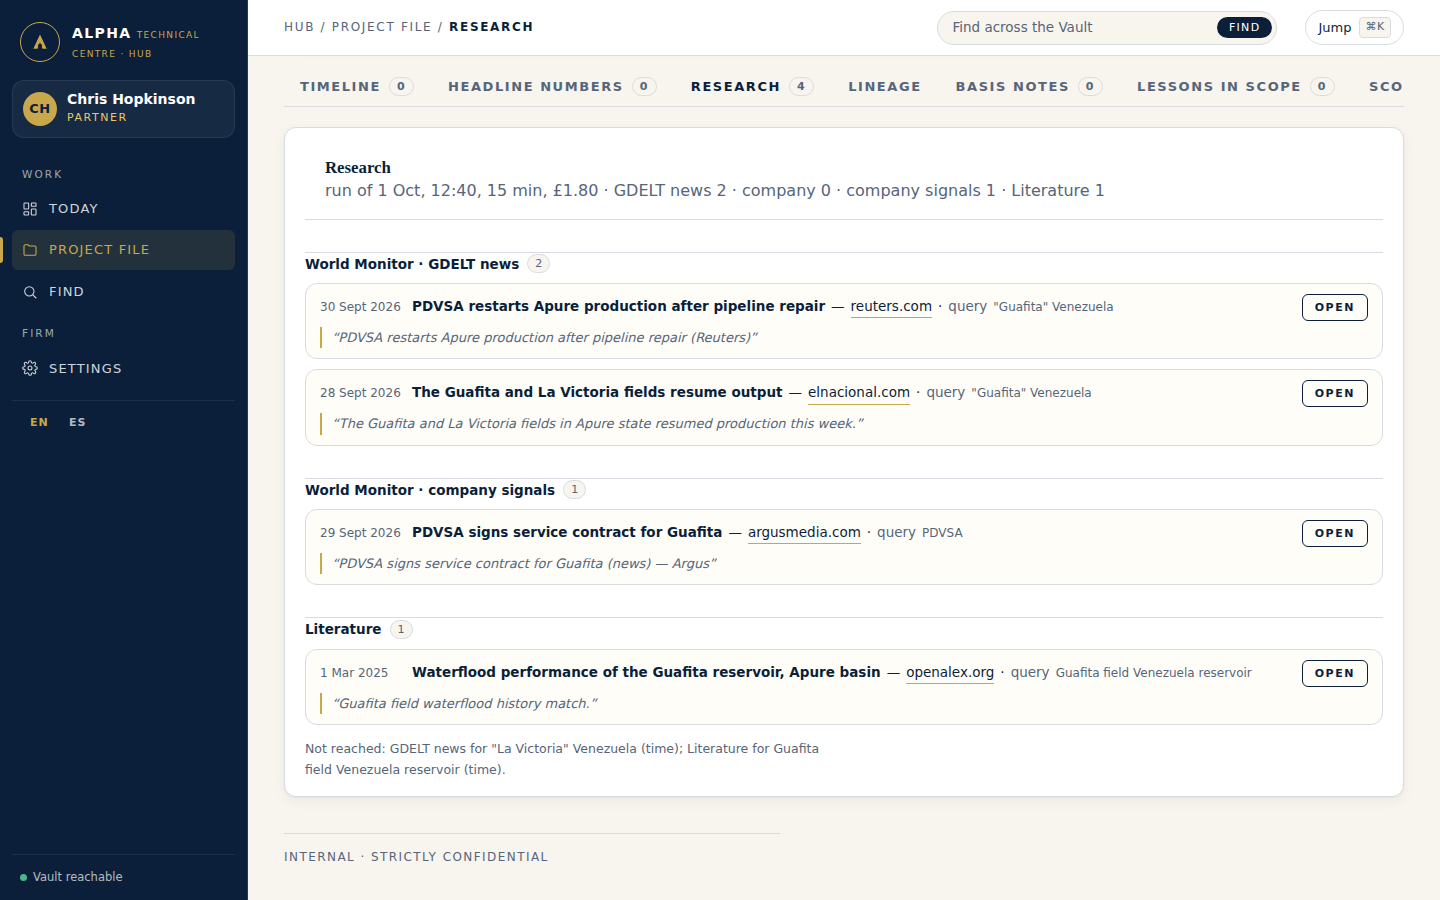
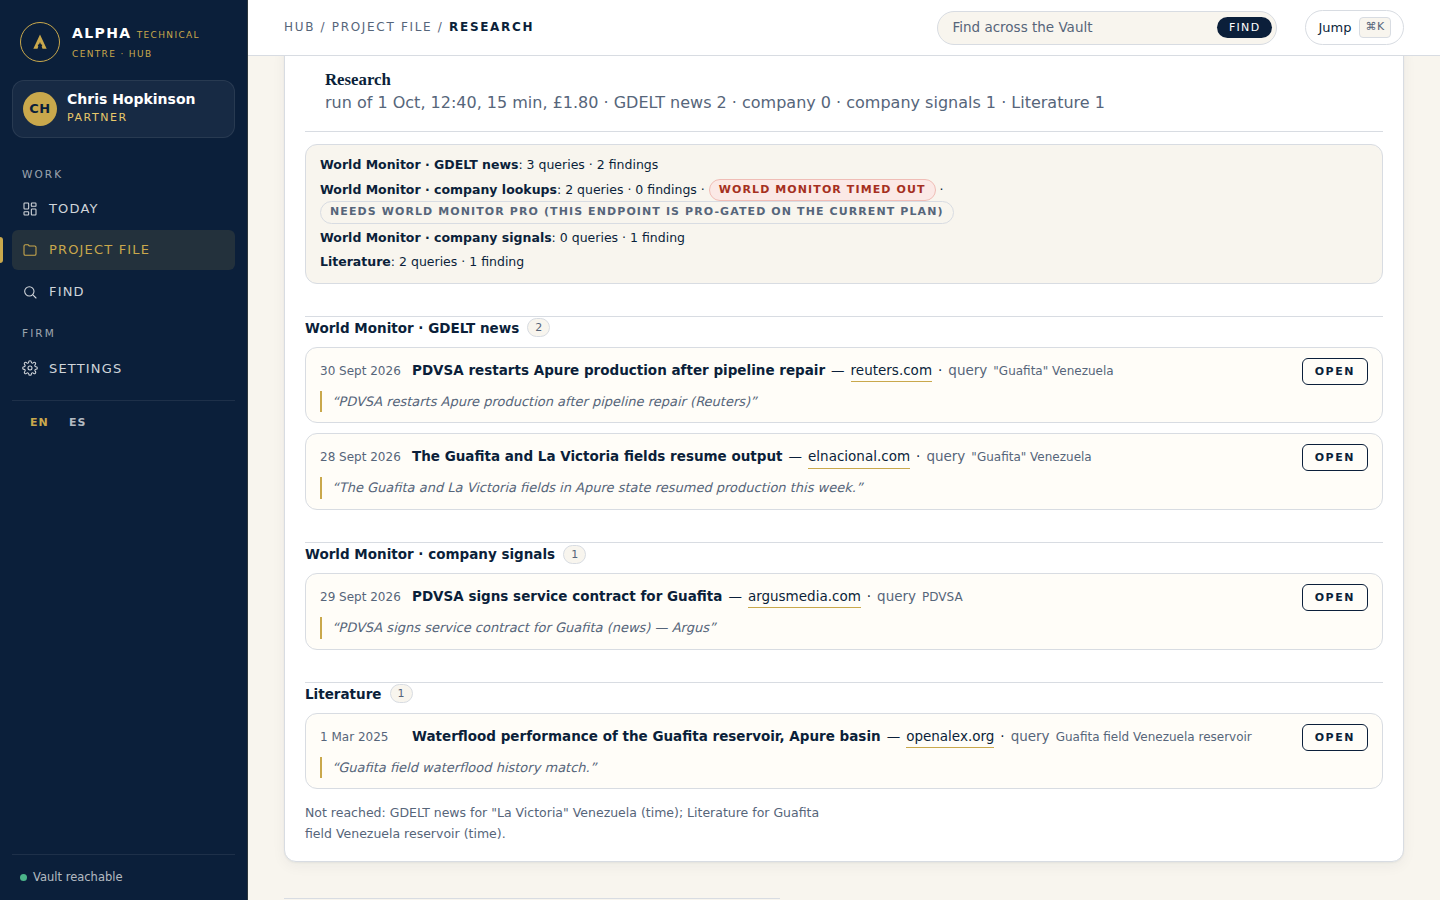
Research runs report where they are and what each source answered
Chris pressed Research on High Tech Electronica and saw "running · 6 min ·
0 findings" with nothing to say why. The literature pass filed nothing
until it finished, and a source that answered nothing, timed out or was
Pro-gated left no trace in the Hub.

- The job row carries a phase (world-monitor, literature, done) and the
  running count is written during the literature pass (every 3 s), so the
  status line says "running · 6 min · 0 findings · searching the
  literature".
- The Research tab lists what each source was asked and answered
  (queries, findings, error, Pro gate), and a finished run with nothing
  found says so instead of looking idle.
- The run writes one summary line to the server log at the end, so Render
  shows what happened without opening the Hub.
- The miners gain an onProgress hook; literature adapter errors land on
  the research summary.

Vault 414 passing, Playwright research spec 7 passing.

Claude-Session: https://claude.ai/code/session_01Cjvnf42mX2Ab9Sf24rXZ1W

diff --git a/vault/src/research/run.ts b/vault/src/research/run.ts
@@ -25,6 +25,10 @@ export interface ResearchOptions {
   budgetMs?: number; budgetGbp?: number; minerAdapters?: FeedAdapter[]; skipMiners?: boolean; skipWorldMonitor?: boolean; by?: string;
   /** Ask the model for facts on at most this many findings per run (the spend cap applies too). */
   maxFactReads?: number;
+  /** Where the end-of-run line goes (the server log by default; tests pass a sink). */
+  log?: (line: string) => void;
+  /** How often the running counts are written while the literature pass goes (ms). */
+  progressEveryMs?: number;
 }
 export interface SourceCount { queries: number; findings: number; created: number; updated: number; unchanged: number; error?: string; skipped?: string }
 export interface NotReached { source: string; query: string; reason: string }
@@ -32,6 +36,8 @@ export interface ResearchSummary {
   project_id: string; status: 'ok' | 'failed' | 'stopped'; started_at: string; finished_at: string | null; duration_ms: number;
   sources: Record<string, SourceCount>; findings: number; proposals: { asset: number; research: number }; fact_reads: number;
   spend_gbp: number; budget: { ms: number; gbp: number }; not_reached: NotReached[]; stopped_by: 'time' | 'spend' | null; warnings: string[]; queued?: boolean; names?: string[];
+  /** Where a running job is: the Hub's status line says so. */
+  phase?: 'world-monitor' | 'literature' | 'done';
 }
 
 export const RESEARCH_DISABLED = 'research runs are switched off (RESEARCH_ENABLED=false on the Vault service)';
@@ -94,7 +100,8 @@ export async function runResearch(db: Db, projectId: string, opts: ResearchOptio
   const started = now();
   const budget = { ms: opts.budgetMs ?? budgetMsOf(), gbp: opts.budgetGbp ?? budgetGbpOf() };
   const by = opts.by ?? 'research';
-  const summary: ResearchSummary = { project_id: projectId, status: 'ok', started_at: started.toISOString(), finished_at: null, duration_ms: 0, sources: {}, findings: 0, proposals: { asset: 0, research: 0 }, fact_reads: 0, spend_gbp: 0, budget, not_reached: [], stopped_by: null, warnings: [] };
+  const summary: ResearchSummary = { project_id: projectId, status: 'ok', started_at: started.toISOString(), finished_at: null, duration_ms: 0, sources: {}, findings: 0, proposals: { asset: 0, research: 0 }, fact_reads: 0, spend_gbp: 0, budget, not_reached: [], stopped_by: null, warnings: [], phase: 'world-monitor' };
+  const log = opts.log ?? ((line: string) => console.log(line));
   const job = jobId ?? (await db.query<{ id: number }>("INSERT INTO jobs (name, status, summary) VALUES ('research', 'running', $1::jsonb) RETURNING id", [JSON.stringify({ project_id: projectId, queued: false })])).rows[0].id;
   await db.query('UPDATE jobs SET started_at = $2, summary = $3::jsonb WHERE id = $1', [job, started.toISOString(), JSON.stringify({ ...summary, queued: false })]);
   const touched: string[] = [];
@@ -168,20 +175,33 @@ export async function runResearch(db: Db, projectId: string, opts: ResearchOptio
       }
     } else if (!opts.skipWorldMonitor) summary.warnings.push('World Monitor not connected: GDELT, company and filing searches skipped');
 
-    // 2. The miners: literature per field and operator, scoped to the project.
+    // 2. The miners: literature per field and operator, scoped to the project. The Hub reads the running
+    //    counts while this goes, so a long pass does not look like nothing happening.
+    summary.phase = 'literature';
+    await progress();
     if (!opts.skipMiners && q.literature.length) {
       const s = stop();
       if (s) summary.not_reached.push({ source: 'literature', query: q.literature.map(t => t.query).join(' | '), reason: s });
       else {
         count('literature').queries += q.literature.length;
         const since = new Date(started.getTime() - 5 * 365 * 86_400_000);
+        const before = summary.findings;
+        let lastProgress = 0;
         try {
           const m: MinerSummary = await runMiners(db, { now: started, since, only: ['openalex', 'crossref', 'semantic-scholar'], force: true, storage: opts.storage, fetch: opts.fetch, adapters: opts.minerAdapters, clock: opts.clock ?? (opts.now ? { now: () => now().getTime(), sleep: async () => {} } : undefined),
             config: { topics: q.literature, negative: ['retracted', 'erratum'], sec_issuers: [], lookback_days: { weekly: 8, monthly: 40 }, sources: { openalex: { enabled: true }, crossref: { enabled: true }, 'semantic-scholar': { enabled: true } } } as any,
-            projectId, queryOf: (topicId) => q.literature.find(t => t.id === topicId)?.query ?? null, budgetUntil: new Date(started.getTime() + budget.ms) });
+            projectId, queryOf: (topicId) => q.literature.find(t => t.id === topicId)?.query ?? null, budgetUntil: new Date(started.getTime() + budget.ms),
+            onProgress: async (ms) => {
+              summary.findings = before + ms.created + ms.updated;
+              const c = count('literature'); c.findings = Object.values(ms.adapters).reduce((n, a) => n + a.fetched, 0); c.created = ms.created; c.updated = ms.updated; c.unchanged = ms.unchanged;
+              const t = now().getTime();
+              if (t - lastProgress >= (opts.progressEveryMs ?? 3000)) { lastProgress = t; await progress(); }
+            } });
           const c = count('literature');
-          c.findings += Object.values(m.adapters).reduce((n, a) => n + a.fetched, 0); c.created += m.created; c.updated += m.updated; c.unchanged += m.unchanged;
-          summary.findings += m.created + m.updated;
+          c.findings = Object.values(m.adapters).reduce((n, a) => n + a.fetched, 0); c.created = m.created; c.updated = m.updated; c.unchanged = m.unchanged;
+          summary.findings = before + m.created + m.updated;
+          const errs = Object.entries(m.adapters).filter(([, a]) => a.error).map(([id, a]) => `${id}: ${a.error}`);
+          if (errs.length) c.error = errs.join('; ');
           for (const w of m.warnings) summary.warnings.push(`literature: ${w}`);
           if (m.stopped) summary.not_reached.push({ source: 'literature', query: m.stopped, reason: 'time' });
         } catch (e) { count('literature').error = (e as Error).message; }
@@ -193,8 +213,12 @@ export async function runResearch(db: Db, projectId: string, opts: ResearchOptio
   } catch (e) {
     summary.status = 'failed'; summary.warnings.push((e as Error).message);
   }
+  summary.phase = 'done';
   summary.finished_at = now().toISOString(); summary.duration_ms = elapsed();
   await db.query('UPDATE jobs SET finished_at = $2, status = $3, summary = $4::jsonb WHERE id = $1', [job, summary.finished_at, summary.status === 'failed' ? 'failed' : 'ok', JSON.stringify({ ...summary, queued: false })]);
+  log(`research run ${job} ${projectId}: ${summary.status}, ${summary.findings} findings, ${summary.proposals.asset + summary.proposals.research} proposals, £${summary.spend_gbp}, ${Math.round(summary.duration_ms / 1000)} s; `
+    + Object.entries(summary.sources).map(([k, c]) => `${k} ${c.queries}q/${c.findings}f${c.error ? ' error: ' + c.error : ''}${c.skipped ? ' skipped: ' + c.skipped : ''}`).join(', ')
+    + (summary.not_reached.length ? `; not reached ${summary.not_reached.length}` : '') + (summary.warnings.length ? `; warnings: ${summary.warnings.join(' | ')}` : ''));
   await audit(db, by, 'research.run', `project:${projectId}`, [`project:${projectId}`, ...touched.slice(0, 200)], { findings: summary.findings, proposals: summary.proposals, status: summary.status, stopped_by: summary.stopped_by, spend_gbp: summary.spend_gbp, duration_ms: summary.duration_ms });
   return summary;
 }

diff --git a/vault/test/research.test.ts b/vault/test/research.test.ts
@@ -20,7 +20,9 @@ const { FakeProvider } = await import('../src/llm/provider.ts');
 const { configureLocate } = await import('../src/assets/gazetteers.ts');
 const { configureWorldMonitor, resetWorldMonitorCache } = await import('../src/intel/worldmonitor.ts');
 const { buildQueries, operatorNames } = await import('../src/research/queries.ts');
-const { costGbp, runResearch, researchView } = await import('../src/research/run.ts');
+const { costGbp, runResearch: runResearchRaw, researchView } = await import('../src/research/run.ts');
+const logLines: string[] = [];
+const runResearch: typeof runResearchRaw = (db, pid, opts = {}, jobId) => runResearchRaw(db, pid, { log: (l) => logLines.push(l), progressEveryMs: 0, ...opts }, jobId);
 const { toKboed } = await import('../src/research/findings.ts');
 const { configureResearch } = await import('../src/api/research.routes.ts');
 import type { FeedAdapter } from '../src/miners/types.ts';
@@ -170,6 +172,8 @@ test('W4-AC2: a run files every World Monitor and literature finding as a cited 
   // The run is a job row with its summary, and an audit event names the notes it filed.
   const job = (await db.query<any>("SELECT status, finished_at, summary FROM jobs WHERE name = 'research' ORDER BY id DESC LIMIT 1")).rows[0];
   assert.equal(job.status, 'ok'); assert.ok(job.finished_at); assert.equal(job.summary.project_id, 'hte-apure'); assert.equal(job.summary.findings, firstRun.findings);
+  assert.equal(job.summary.phase, 'done');
+  assert.match(logLines.at(-1)!, /^research run \d+ hte-apure: ok, \d+ findings, 3 proposals, £[0-9.]+, \d+ s; gdelt 4q\/4f, company 3q\/0f, company-enrichment 0q\/3f, company-signals 0q\/\d+f, intel-timeline 1q\/1f, literature \d+q\/2f$/, logLines.at(-1) ?? '');
   const audit = (await db.query<any>("SELECT refs, detail FROM audit_events WHERE action = 'research.run' ORDER BY id DESC LIMIT 1")).rows[0];
   assert.ok(audit.refs.includes('project:hte-apure') && audit.refs.some((r: string) => r.startsWith('doc:')));
   assert.equal(audit.detail.findings, firstRun.findings);
@@ -251,6 +255,23 @@ test('a run on a project the caller cannot write is refused at the queue; an ass
   const no = await ana.request('/api/queue/review/11111111-1111-4111-8111-111111111111/accept', { method: 'POST', headers: { 'content-type': 'application/json' }, body: '{}' });
   assert.equal(no.status, 403, await no.text());
   assert.equal((await db.query<any>("SELECT status FROM review_queue WHERE id = '11111111-1111-4111-8111-111111111111'")).rows[0].status, 'open');
+});
+
+test('while the literature pass runs, the job row carries the phase and the running count so the Hub can show progress', async () => {
+  await db.query("INSERT INTO projects (id,client_id,name,status,default_legal_tag,country,members,asset_ids) VALUES ('hte-live','hte','High Tech Electronica','prospect','lt-firm','VE','{chris}','{field:ve:guafita}')");
+  const seen: { phase: string | undefined; findings: number }[] = [];
+  const spy: FeedAdapter = { ...openalex, async *fetch(since, topics) {
+    const row = (await db.query<any>("SELECT summary FROM jobs WHERE name = 'research' AND summary->>'project_id' = 'hte-live' ORDER BY id DESC LIMIT 1")).rows[0];
+    seen.push({ phase: row.summary.phase, findings: row.summary.findings });
+    yield* openalex.fetch(since, topics);
+  } };
+  configureWorldMonitor({ fetch: wmFetch, apiKey: null, now: () => new Date(t) });
+  const r = await runResearch(db, 'hte-live', { now, storage, provider: null, minerAdapters: [spy], budgetMs: 15 * 60_000, budgetGbp: 3, by: 'chris' });
+  assert.equal(r.status, 'ok');
+  assert.deepEqual(seen, [{ phase: 'literature', findings: 0 }], 'the row said "literature" before the first paper was fetched');
+  const row = (await db.query<any>("SELECT summary FROM jobs WHERE name = 'research' AND summary->>'project_id' = 'hte-live' ORDER BY id DESC LIMIT 1")).rows[0];
+  assert.equal(row.summary.phase, 'done'); assert.equal(row.summary.findings, 1); assert.equal(row.summary.sources.literature.created, 1);
+  configureWorldMonitor({ fetch: wmFetch, apiKey: KEY, now: () => new Date(t) });
 });
 
 test('without World Monitor the run says so and the literature still files', async () => {

diff --git a/hub/project.js b/hub/project.js
@@ -941,7 +941,8 @@ function renderResearch(ctx, first) {
     if (r.status === 'queued') { busy('queued · waiting to start', 'en cola · a la espera de empezar'); return; }
     if (r.status === 'running') {
       const mins = Math.max(0, Math.round((Date.now() - Date.parse(r.started_at)) / 60000));
-      busy('running · ' + mins + ' min · ' + (sm.findings || 0) + ' findings', 'en curso · ' + mins + ' min · ' + (sm.findings || 0) + ' hallazgos');
+      const ph = sm.phase === 'literature' ? [' · searching the literature', ' · buscando en la literatura'] : sm.phase === 'world-monitor' ? [' · asking World Monitor', ' · consultando World Monitor'] : ['', ''];
+      busy('running · ' + mins + ' min · ' + (sm.findings || 0) + ' findings' + ph[0], 'en curso · ' + mins + ' min · ' + (sm.findings || 0) + ' hallazgos' + ph[1]);
       return;
     }
     const when = fmtStamp(r.finished_at || r.started_at);
@@ -968,7 +969,24 @@ function renderResearch(ctx, first) {
     add(head, hd);
     add(panel, head);
     const findings = (state.view && state.view.findings) || [];
-    if (!findings.length) { add(panel, mk('p', 'hub-empty', active() ? 'The run is in progress; findings appear here as they land.' : 'No findings yet. Research this project asks World Monitor and the literature about its fields and operators.', active() ? 'La ejecución está en curso; los hallazgos aparecen aquí a medida que llegan.' : 'Aún sin hallazgos. Investigar este proyecto pregunta a World Monitor y a la literatura por sus campos y operadores.', { id: 'rs-empty' })); }
+    const finished = !!r && (r.status === 'ok' || r.status === 'stopped' || r.status === 'failed');
+    if (!findings.length) {
+      add(panel, mk('p', 'hub-empty', active() ? 'The run is in progress; findings appear here as they land.' : finished ? 'Nothing found this run. The sources below say what was asked and what each answered.' : 'No findings yet. Research this project asks World Monitor and the literature about its fields and operators.',
+        active() ? 'La ejecución está en curso; los hallazgos aparecen aquí a medida que llegan.' : finished ? 'Nada encontrado en esta ejecución. Las fuentes de abajo dicen qué se preguntó y qué respondió cada una.' : 'Aún sin hallazgos. Investigar este proyecto pregunta a World Monitor y a la literatura por sus campos y operadores.', { id: 'rs-empty' }));
+    }
+    // What each source was asked and what it answered: the only way a "0 findings" is an answer rather than a mystery.
+    if (finished && sm.sources && Object.keys(sm.sources).length) {
+      const ul = mk('ul', 'hub-research-sources', null, null, { id: 'rs-sources' });
+      for (const [src, c] of Object.entries(sm.sources)) {
+        const li = mk('li', null, null, null, { 'data-source': src });
+        const lab = RS_SOURCE[src] || (src === 'company' ? ['World Monitor · company lookups', 'World Monitor · búsquedas de empresa'] : [src, src]);
+        add(li, mk('b', null, lab[0], lab[1]), document.createTextNode(': '), mk('span', null, (c.queries || 0) + (c.queries === 1 ? ' query · ' : ' queries · ') + (c.findings || 0) + (c.findings === 1 ? ' finding' : ' findings'), (c.queries || 0) + (c.queries === 1 ? ' consulta · ' : ' consultas · ') + (c.findings || 0) + (c.findings === 1 ? ' hallazgo' : ' hallazgos')));
+        if (c.error) add(li, document.createTextNode(' · '), dv('span', 'hub-pill bad', c.error, { 'data-error': '' }));
+        if (c.skipped) add(li, document.createTextNode(' · '), dv('span', 'hub-pill muted', c.skipped, { 'data-skipped': '' }));
+        add(ul, li);
+      }
+      add(panel, ul);
+    }
     const groups = new Map();
     for (const f of findings) { const g = rsGroupOf(f.source); if (!groups.has(g)) groups.set(g, []); groups.get(g).push(f); }
     for (const g of [...RS_ORDER, ...[...groups.keys()].filter((k) => !RS_ORDER.includes(k))]) {

diff --git a/vault/src/miners/run.ts b/vault/src/miners/run.ts
@@ -291,6 +291,8 @@ export interface RunOptions {
   queryOf?: (topicId: string | null) => string | null;
   /** Wave 4: stop fetching when the clock passes this instant; the summary names where it stopped. */
   budgetUntil?: Date;
+  /** Wave 4: called after every record is filed (or skipped), with the running summary, so a caller can show progress. */
+  onProgress?: (summary: RunSummary, adapterId: string) => void | Promise<void>;
 }
 
 const DAY = 86_400_000;
@@ -342,6 +344,7 @@ export async function runMiners(db: Db, opts: RunOptions = {}): Promise<RunSumma
         counts[r.status === 'created' ? 'created' : r.status === 'updated' ? 'updated' : 'unchanged']++;
         if (r.status !== 'unchanged') touched.push(`doc:${r.id}`);
         if (kind.type === 'paper' && r.status === 'created') index.add({ id: r.id, source: kind.source, external_id: rec.external_id, doi: normDoi(rec.meta.doi), title: rec.title });
+        if (opts.onProgress) await opts.onProgress({ ...summary, created: summary.created + counts.created, updated: summary.updated + counts.updated, unchanged: summary.unchanged + counts.unchanged }, id);
       }
     } catch (e) {
       counts.error = (e as Error).message;

diff --git a/hub/hub.css b/hub/hub.css
@@ -734,3 +734,6 @@ a.hub-cite:hover { background: var(--gold); color: var(--navy); }
 .hub-facts { margin-top: 14px; }
 .hub-fact .hub-proposal-head b { color: var(--navy); }
 @media (max-width: 640px) { .hub-research-ctl { margin-left: 0; } .hub-finding-head .d { min-width: 0; } }
+.hub-research-sources { list-style: none; margin: 12px 0 0; padding: 10px 14px; border: 1px solid var(--rule); border-radius: var(--r-lg); background: var(--cream); font-size: 12.5px; display: grid; gap: 4px; }
+.hub-research-sources b { font-weight: 600; color: var(--navy); }
+.hub-research-sources .hub-pill { font-size: 11px; vertical-align: middle; }
